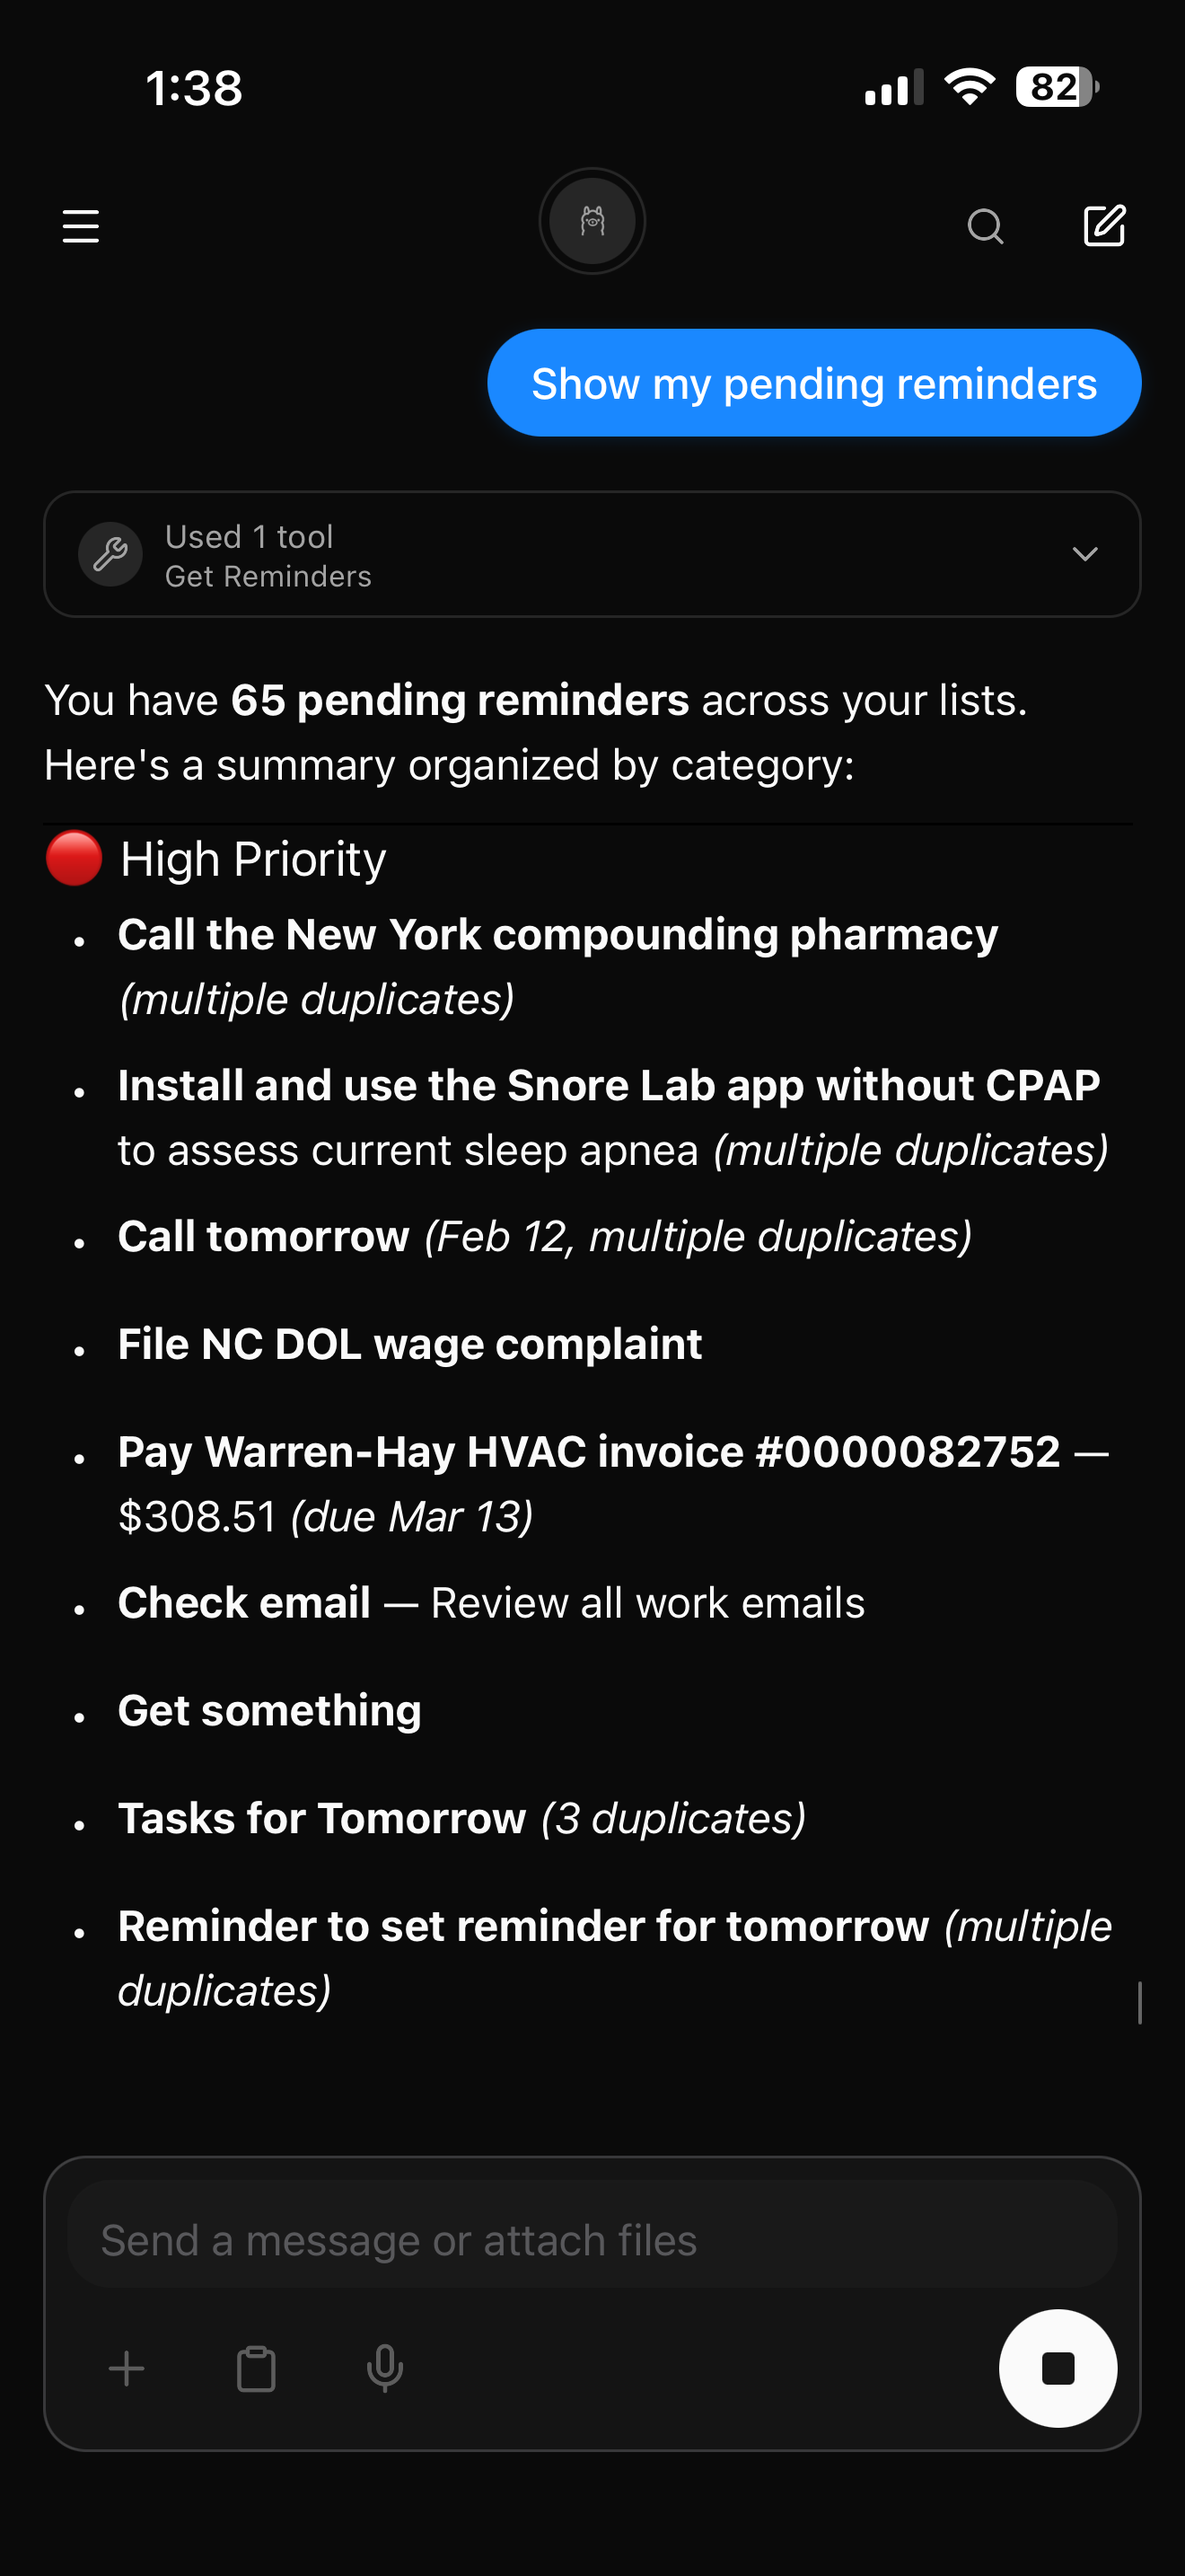
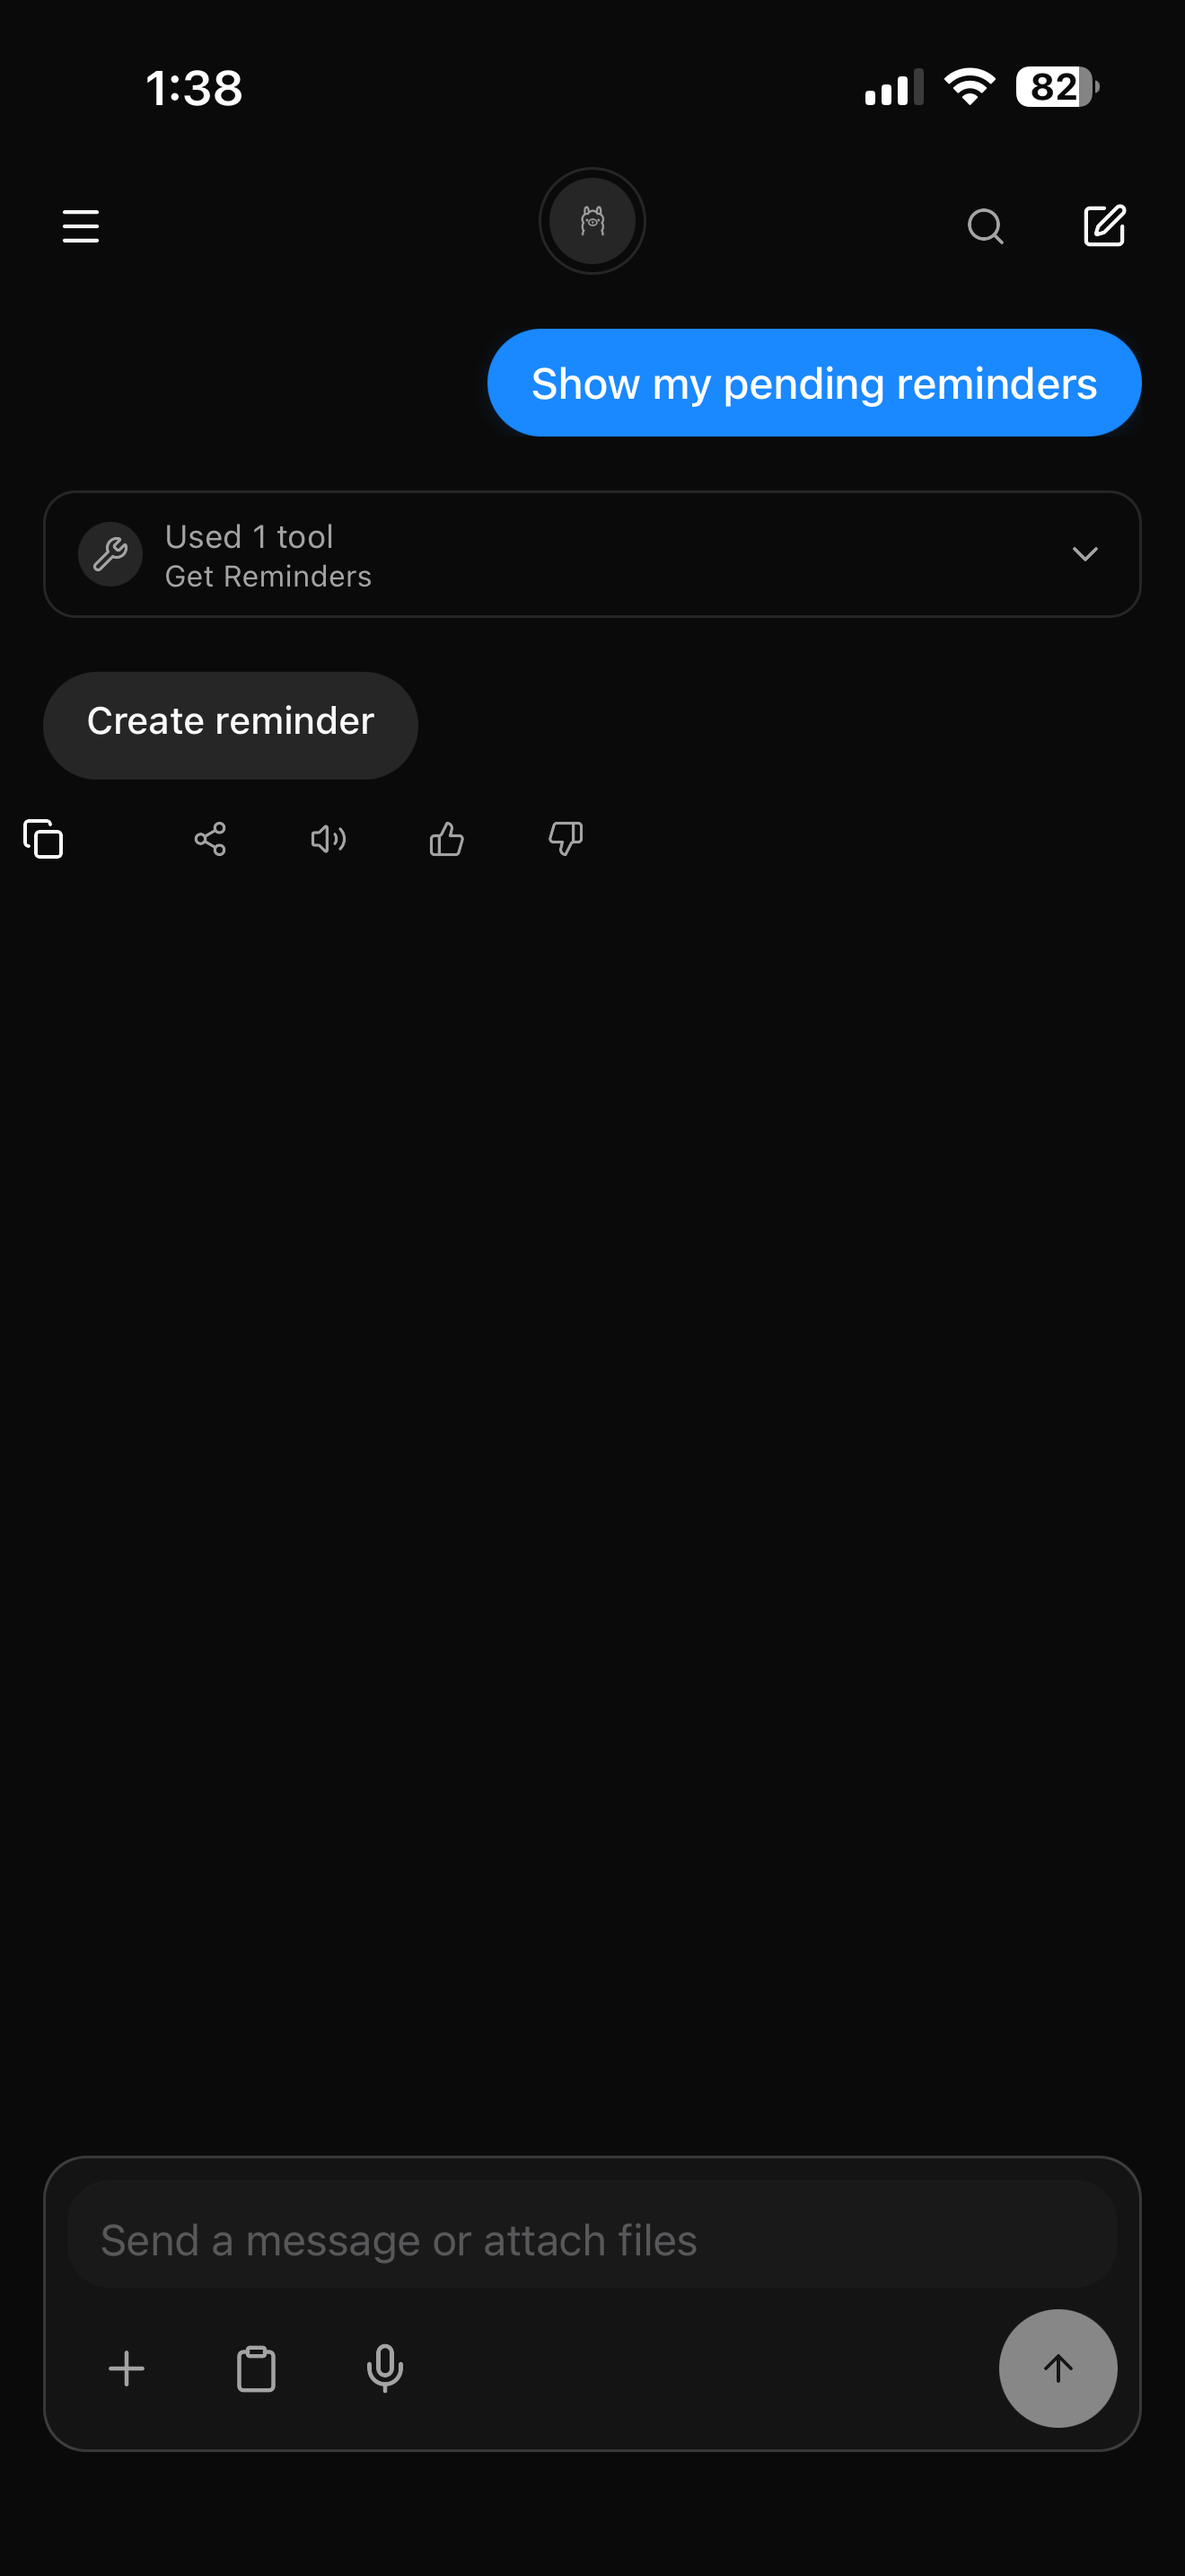
Replace EventKit screenshot with content-free version
Previous shot exposed personal reminders (pharmacy, medical, invoice).
New shot shows only the tool invocation pill, no user data.

diff --git a/lib/content.ts b/lib/content.ts
@@ -97,9 +97,9 @@ export const novaShots = [
   },
   {
     src: "/apps/nova-reminders.png",
-    alt: "N.O.V.A. summarizing 65 pending reminders pulled through EventKit",
+    alt: "N.O.V.A. invoking the Get Reminders tool via EventKit",
     caption: "EventKit in use",
-    note: "Tool call: Get Reminders · 65 pending summarized",
+    note: "Tool call: Get Reminders · native iOS Reminders bridge",
   },
   {
     src: "/apps/nova-code.png",
